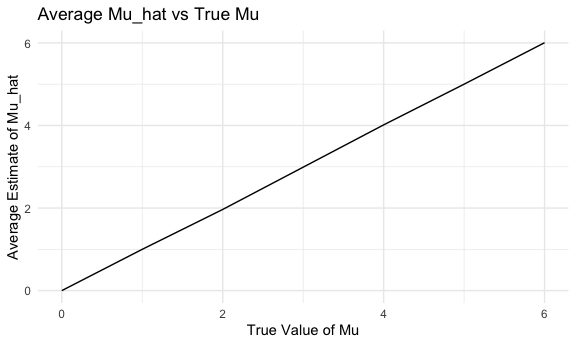
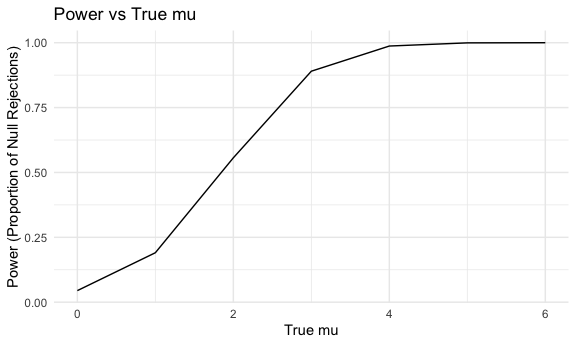
plots for problem 2

diff --git a/p8105_hw5_yl5505.md b/p8105_hw5_yl5505.md
@@ -53,76 +53,83 @@ increases, and the growth in probability is nonlinear.
 set.seed(123)
 n = 30
 sigma = 5
-mu_vals = 0:6
+mu_values = c(0, 1, 2, 3, 4, 5, 6)
+num_sim = 5000
 
-p_values = function(mu) {
-  map_dbl(1:5000, ~ {
+run_sim = function(mu) {
+  replicate(num_sim, {
     x = rnorm(n, mean = mu, sd = sigma)
     t_test = t.test(x, mu = 0)
-    broom::tidy(t_test)$p.value
-  })
+    broom::tidy(t_test)
+  }, simplify = FALSE) |>
+    bind_rows() |>
+    mutate(mu = mu)
 }
 
-power_results = map_df(mu_vals, function(mu) {
-  p_vals = p_values(mu)
-  power = mean(p_vals < 0.05)
-  return(tibble(mu = mu, power = power))
-})
-
-power_results
+simulations = map_df(mu_values, run_sim)
 ```
 
-    ## # A tibble: 7 × 2
-    ##      mu  power
-    ##   <int>  <dbl>
-    ## 1     0 0.0446
-    ## 2     1 0.191 
-    ## 3     2 0.556 
-    ## 4     3 0.890 
-    ## 5     4 0.987 
-    ## 6     5 0.999 
-    ## 7     6 1
-
-## Plot Power
+## Power and Estimate Mu
 
 ``` r
-ggplot(power_results, aes(x = mu, y = power)) +
+results_df = simulations |>
+  group_by(mu) |>
+  summarize(
+    power = mean(p.value < 0.05),
+    avg_mu_est = mean(estimate),
+    avg_rej_mu_est = mean(estimate[p.value < 0.05], na.rm = TRUE)
+  )
+
+results_df
+```
+
+    ## # A tibble: 7 × 4
+    ##      mu  power avg_mu_est avg_rej_mu_est
+    ##   <dbl>  <dbl>      <dbl>          <dbl>
+    ## 1     0 0.0446    0.00900          0.147
+    ## 2     1 0.191     1.01             2.23 
+    ## 3     2 0.556     1.99             2.60 
+    ## 4     3 0.890     3.01             3.20 
+    ## 5     4 0.987     3.98             4.01 
+    ## 6     5 0.999     4.98             4.99 
+    ## 7     6 1         5.99             5.99
+
+## Plot 1: Power vs True mu
+
+``` r
+results_df |>
+  ggplot(aes(x = mu, y = power)) +
   geom_line() +
   labs(
-    title = "Power of T-Test",
-    x = "True Value of Mu",
-    y = "Power"
+    title = "Power vs True mu",
+    x = "True mu",
+    y = "Power (Proportion of Null Rejections)"
   )
 ```
 
-<img src="p8105_hw5_yl5505_files/figure-gfm/unnamed-chunk-6-1.png" width="90%" /> -
-The plot shows a positive relationship between effect size (mu) and
-statistical power. As the effect size (mu) increases, the power of the
-test also increases.
+<img src="p8105_hw5_yl5505_files/figure-gfm/unnamed-chunk-7-1.png" width="90%" /> -
+The relationship between effect size and power is positive. As the
+effect size increases, power also increases,
 
-## Plot True mu
+## Plot 2: Average estimate mu vs True mu
 
 ``` r
-mu_hat = function(mu) {
-  map_dbl(1:5000, ~ {
-    x = rnorm(n, mean = mu, sd = sigma)
-    mean(x)
-  })
-}
-
-mu_hat2 = map_df(mu_vals, function(mu) {
-  mu_hats = mu_hat(mu)
-  avg_mu_hat = mean(mu_hats)
-  return(tibble(mu = mu, avg_mu_hat = avg_mu_hat))
-})
-
-ggplot(mu_hat2, aes(x = mu, y = avg_mu_hat)) +
-  geom_line() +
+results_df |>
+  ggplot(aes(x = mu)) +
+  geom_line(aes(y = avg_mu_est), color = "blue") +
+  geom_line(aes(y = avg_rej_mu_est), color = "red") +
   labs(
-    title = "Average Mu_hat vs True Mu",
-    x = "True Value of Mu",
-    y = "Average Estimate of Mu_hat"
+    title = "Average Estimate mu vs True mu",
+    x = "True mu",
+    y = "Average Estimate"
   )
 ```
 
-<img src="p8105_hw5_yl5505_files/figure-gfm/unnamed-chunk-7-1.png" width="90%" />
+<img src="p8105_hw5_yl5505_files/figure-gfm/unnamed-chunk-8-1.png" width="90%" /> -
+No, the sample average of estimate mu across tests for which the null is
+rejected is not approximately equal to the true value of mu.The average
+estimate mu is consistently higher than the true value of mu for the
+cases where the null hypothesis was rejected.Because more samples reject
+the null, including those closer to the true value, will lead to a
+reduction in bias.So the red line becomes closer to the blue line as mu
+increases.
